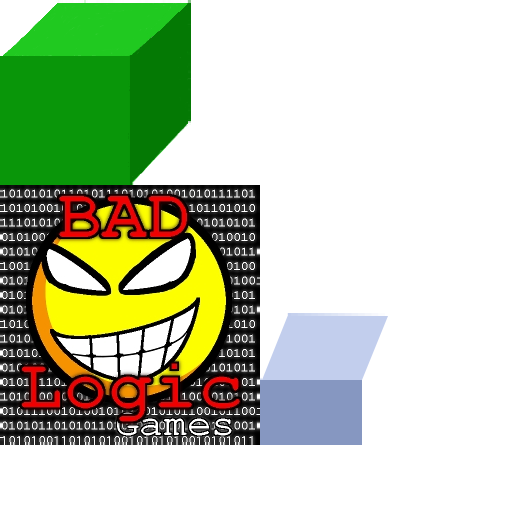
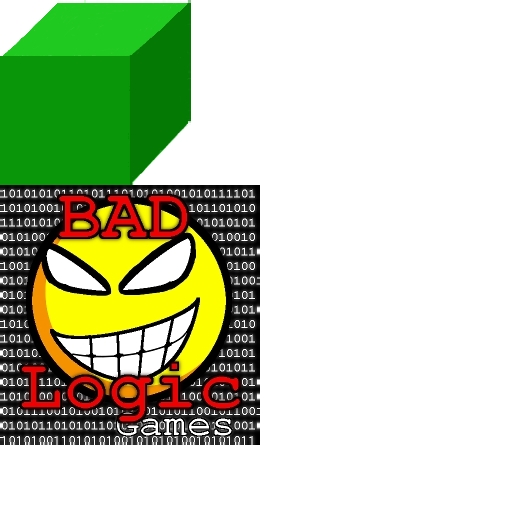
terrain with gaps

Changed region(s): [[0.5, 0.5938, 0.75, 0.875]]

diff --git a/core/src/com/mygdx/game/model/Terrain.java b/core/src/com/mygdx/game/model/Terrain.java
@@ -19,7 +19,7 @@ public class Terrain {
     private final int HEIGHT = 6;
     private final int OFFSET_X;
     private final int OFFSET_Y;
-    private final int GAP = 10;
+    private final int GAP = 5;
 
     private TextureRegion block;
 
@@ -30,12 +30,12 @@ public class Terrain {
         block = ImageCache.getTexture("tile");
 
         BLOCK_SHIFT = block.getRegionWidth() - BLOCK_WIDTH;
-        BLOCK_DEPTH = block.getRegionHeight() - BLOCK_WIDTH;
+        BLOCK_DEPTH = block.getRegionHeight() - BLOCK_WIDTH + GAP;
 
         collisionPolygon = new Polygon(new float[]{
                 0, BLOCK_WIDTH,
-                BLOCK_WIDTH * WIDTH, BLOCK_WIDTH,
-                WIDTH * BLOCK_WIDTH + HEIGHT * BLOCK_SHIFT, BLOCK_DEPTH * HEIGHT + BLOCK_WIDTH,
+                WIDTH * (BLOCK_WIDTH + GAP), BLOCK_WIDTH,
+                WIDTH * (BLOCK_WIDTH + GAP) + HEIGHT * BLOCK_SHIFT, BLOCK_DEPTH * HEIGHT + BLOCK_WIDTH,
                 HEIGHT * BLOCK_SHIFT, BLOCK_DEPTH * HEIGHT + BLOCK_WIDTH,
         });
         float terrain_width = collisionPolygon.getVertices()[4] - collisionPolygon.getVertices()[0];
@@ -54,7 +54,7 @@ public class Terrain {
     public void draw(Batch batch) {
         for (int i = 0; i < WIDTH; i++) {
             for (int j = HEIGHT-1; j >=0; j--) {
-                int x = i * BLOCK_WIDTH + j * BLOCK_SHIFT + OFFSET_X;
+                int x = i * (BLOCK_WIDTH + GAP) + j * BLOCK_SHIFT + OFFSET_X;
                 int y = j * BLOCK_DEPTH + OFFSET_Y;
                 batch.draw(block, x, y);
             }
